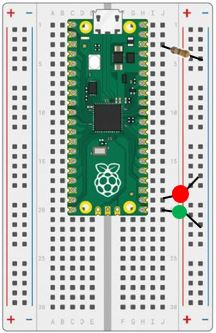
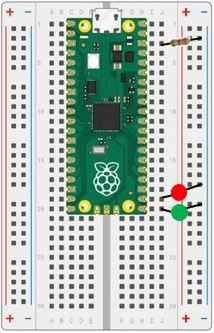
Added lab 3 and solutions to lab2 and 3

Changed region(s): [[0.0, 0.0, 1.0, 1.0]]

diff --git a/docs/micropython/buttonPressInterrupt.md b/docs/micropython/buttonPressInterrupt.md
@@ -1,0 +1,57 @@
+# Our Third Lab Continued: Reading a Button Press (Interrupt)
+
+## Parts for this Lab are in Bag **2** and Bag **3**
+
+1. Using the setup from the last lab, we'll use two LEDs and a resistor from Bag 2.  As a reminder:
+
+    ```Insert the Anode (long) leads into j20 and j19```
+
+    ```Insert the Cathode (short) leads into the Ground(-) rail```
+
+    ```Insert the resistor leads into j3 and into the Ground(-) rail``` 
+
+1. We will also use the parts from Bag 3.  As a reminder:
+
+    - The pins of the switch will straddle the channel and be inserted into ```e28, e30, f28, and f30```
+    - Using one of the jumper wires in Bag 3, insert one end to ```j5``` and the other end into the ```Power(+) rail``` 
+    - Take the second jumper wire, insert one end into the ```Power(+) rail``` and the other into ```j28```
+    - Using the third jumper wire, insert one end into ```a30``` and the other end into ```a20```
+    - When you are finished, your breadboard should look similar to the image below (Note: your LEDs and wires may be different colors)
+
+![Lab 3](./img/lab3.jpg)
+
+## What is an Interrupt and Why Would You Use It?
+
+- Although the polling version is simple, it does take a lot of the processor resources. The button.value() is checked multiple times a second, even though the button might only be pressed once a day.
+
+- A more efficient strategy is to use an interrupt handler.  This is a function that is “registered” by MicroPython to handle external events such as button pushes.
+
+- Think of it like this: instead of checking your phone every 10 seconds, waiting for a text from your friend, your phone vibrates to let you know you have a text.
+
+## How Would You Read the Button Using an Interrupt?
+
+The object of this lab is still to have one of the external LEDs on while the other is off.  Then switch after each button press.  Continue until you stop the program.
+
+- We can use the third program to continue to use two GP pins to control the external LEDs.  
+- We will still use pin 15 to be an input, with the default state to be logical 0 (pulled down):
+    - button = Pin(15, Pin.IN, Pin.PULL_DOWN)
+- This is where the program will change, an interrupt handler has two parts:
+    - The function that handles the interrupt:
+    ```python
+    def buttonPressed(pin):
+        global lastTime, led1, led2
+        
+        # get the time the button was pressed and compare it with the last time
+        newTime = utime.ticks_ms()
+        if newTime - lastTime > 200:
+            led1.toggle()
+            led2.toggle()
+            lastTime = newTime    
+    ```
+    - And register the function for the interrupt:
+    ```python
+    button.irq(trigger=Pin.IRQ_FALLING, handler=buttonPressed)
+    ```
+- Finally, the program loop is just a call to the sleep function, since the interrupt handler will handle any button press
+- Save your program as lab3a.py
+- Don't forget to comment your code!

diff --git a/docs/micropython/buttonPressPoll.md b/docs/micropython/buttonPressPoll.md
@@ -1,0 +1,52 @@
+# Our Third Lab: Reading a Button Press (Polling)
+
+## Parts for this Lab are in Bag **2** and Bag **3**
+
+1. Using the setup from the last lab, we'll use two LEDs and a resistor from Bag 2.  As a reminder:
+
+    ```Insert the Anode (long) leads into j20 and j19```
+
+    ```Insert the Cathode (short) leads into the Ground(-) rail```
+
+    ```Insert the resistor leads into j3 and into the Ground(-) rail``` 
+
+1. Take one button from Bag 3 and insert it into the bottom of the board.  The pins of the switch will straddle the channel and be inserted into ```e28, e30, f28, and f30```
+
+1. Using one of the jumper wires in Bag 3, insert one end to ```j5``` and the other end into the ```Power(+) rail``` 
+
+1. Take the second jumper wire, insert one end into the ```Power(+) rail``` and the other into ```j28```
+
+1. Using the third jumper wire, insert one end into ```a30``` and the other end into ```a20```
+
+1. When you are finished, your breadboard should look similar to the image below (Note: your LEDs and wires may be different colors)
+
+![Lab 3](./img/lab3.jpg)
+
+## How Would You Read the Button to Make the LEDs Blink in an Alternating Pattern?
+
+The object of this lab is to have one of the external LEDs on while the other is off.  Then switch after each button press.  Continue until you stop the program.
+
+- We can use the second program to continue to use two GP pins to control the external LEDs.  
+- We need to modify the program to have the Pico read from a GP pin in this lab.  To do so, designate GP pin 15 to be an input, with the default state to be logical 0 (pulled down):
+    - button = Pin(15, Pin.IN, Pin.PULL_DOWN)
+- When the button is pressed, 3.3V (logical 1) will be applied to the input.
+- The state of the button can be read at any time:
+    - button.value()
+
+## What Does a Button Press Look Like to the Pico?
+
+![Button Press](./img/buttonPress.png)
+
+Hints:
+
+- You will still need the setup to control GP pins connected to the LEDs and a main loop as was done in Lab 2.
+
+- You will need to define GP pin 15 as an input as shown above.  That should be done in the same section of code that defines the GP pins that control the LEDs.
+
+- Check the button state inside the loop to determine if the button was pressed, using a conditional.
+
+- Once the button is pressed, sleep for a moment to make sure you get a clean press and release.
+
+- Save the program as lab3.py
+
+- Don't forget to comment your code!

diff --git a/docs/micropython/alternatingBlink.md b/docs/micropython/alternatingBlink.md
@@ -4,17 +4,17 @@
 
 1. The longer lead on the LED is the Anode(+) lead.  This is the lead that you will connect to your Pico
 
-    ```Insert the Anode leads into J20 and J19```
+    ```Insert the Anode leads into j20 and j19```
 
 1. The shorter lead on the LED is called the Cathode(-).  This is the lead that you will connect to the ground rail.
 
-    ```Insert the Cathode leads into the Ground rail```
+    ```Insert the Cathode leads into the Ground(-) rail```
 
 1. We will also use a resistor from one of the ground pins on the Pico and connect it to the ground rail.
 
-    ```Insert the resistor leads into J3 and into the Ground rail``` 
+    ```Insert the resistor leads into j3 and into the Ground(-) rail``` 
 
-1. When you are finsihed, your breadboard should look similar to the image below (Note: you LEDs may be different colors)
+1. When you are finished, your breadboard should look similar to the image below (Note: your LEDs may be different colors)
 
 ![Lab 2](./img/lab2.jpg)
 
@@ -29,4 +29,15 @@ The object of this lab is to have one of the external LEDs on while the other is
     - Use the toggle function to turn each LED on and off
 
 !!! Challenge
-    Can you add the other two LEDs in the bag and have one LED on a time?
+    Can you add the other two LEDs in the bag and have one LED on a time?  Ideally, each LED would be on for one second while the rest were off, then the next LED would turn on, and so on.
+    
+    Think about some of the lessons you learned in the Python Class!  Here are some ideas:
+
+    - Use a list to hold the GPIO pins (led1, led2, led3, led4)
+
+    - Use a loop to determine which LED to turn on
+
+    - Use a function to turn on one LED will turning the others off
+
+     - Don't forget to comment your code!
+     

diff --git a/docs/micropython/lab3.md b/docs/micropython/lab3.md
@@ -1,0 +1,76 @@
+# Our Third Lab: Reading a Button Press
+
+## Solution: Polling Method
+
+```python
+# Author: J.E. Tannenbaum
+# Initial Release: 01/13/2022
+# Alternating blinking leds
+from machine import Pin
+from time import sleep
+
+# Define the pin for each led
+led1 = Pin(16, Pin.OUT)
+led2 = Pin(17, Pin.OUT)
+
+# define the pin for the button
+button = Pin(15, Pin.IN, Pin.PULL_DOWN)
+
+# make sure one is off and one is on
+led1.low()
+led2.high()
+
+# Toggle when the button is pressed
+while True:
+
+    # Was the button pressed?
+    if button.value():
+        led1.toggle()
+        led2.toggle()
+
+        # This is delay to give time to get finger off the button.  
+        sleep(0.5)
+```
+
+## Solution: Interriupt Method
+
+```python
+# Author: J.E. Tannenbaum
+# Initial Release: 01/13/2022
+# Alternating blinking leds
+from machine import Pin
+import utime
+from time import sleep
+
+# define the last time a button was pressed
+lastTime = 0
+
+# Define the pin for each led
+led1 = Pin(16, Pin.OUT)
+led2 = Pin(17, Pin.OUT)
+
+# define the pin for the button
+button = Pin(15, Pin.IN, Pin.PULL_DOWN)
+
+# make sure one is off and one is on
+led1.low()
+led2.high()
+
+# handle the button press
+def buttonPressed(pin):
+    global lastTime, led1, led2
+    
+    # get the time the button was pressed and compare it with the last time
+    newTime = utime.ticks_ms()
+    if newTime - lastTime > 200:
+        led1.toggle()
+        led2.toggle()
+        lastTime = newTime
+        
+# register the interrupt handler for the button
+button.irq(trigger=Pin.IRQ_FALLING, handler=buttonPressed)
+
+# Do nothing loop
+while True:
+    sleep(10)
+```

diff --git a/docs/micropython/lab2.md b/docs/micropython/lab2.md
@@ -1,0 +1,65 @@
+# Our Second Lab: Using the Digital I/O Pins to Make Two LEDs Blink
+
+## Solution: Blinking Two LEDs
+
+```python
+# Author: J.E. Tannenbaum
+# Initial Release: 01/13/2022
+# Alternating blinking leds
+from machine import Pin
+from time import sleep
+
+# Define the pin for each led
+led1 = Pin(16, Pin.OUT)
+led2 = Pin(17, Pin.OUT)
+
+
+# make sure one is off and one is on
+led1.low()
+led2.high()
+
+
+# Toggle on for 1 second, then off for one second forever
+while True:
+	led1.toggle()
+	led2.toggle()
+	sleep(1)
+```
+
+## Solution: Challenge - Blinking Four LEDs
+
+```python
+# Author: J.E. Tannenbaum
+# Initial Release: 12/26/2022
+# Alternating blinking leds
+from machine import Pin
+from time import sleep
+
+# Define the pin for each led
+led1 = Pin(16, Pin.OUT)
+led2 = Pin(17, Pin.OUT)
+led3 = Pin(18, Pin.OUT)
+led4 = Pin(19, Pin.OUT)
+
+# Create a list of LEDs
+leds = [led1, led2, led3, led4]
+
+# define a function to turn on one LED and turn the others off
+def toggleLeds(led, leds):
+    
+    # Turn one LED on
+    led.high()
+    
+    # Loop through all of the LEDs
+    for offLed in leds:
+        
+        # Is this the LED that is on?  If not, turn the LED off.
+        if led != offLed:
+            offLed.low()
+
+# Toggle a LED on for 1 second forever
+while True:
+    for led in leds:
+        toggleLeds(led, leds)
+    	sleep(1)
+```
